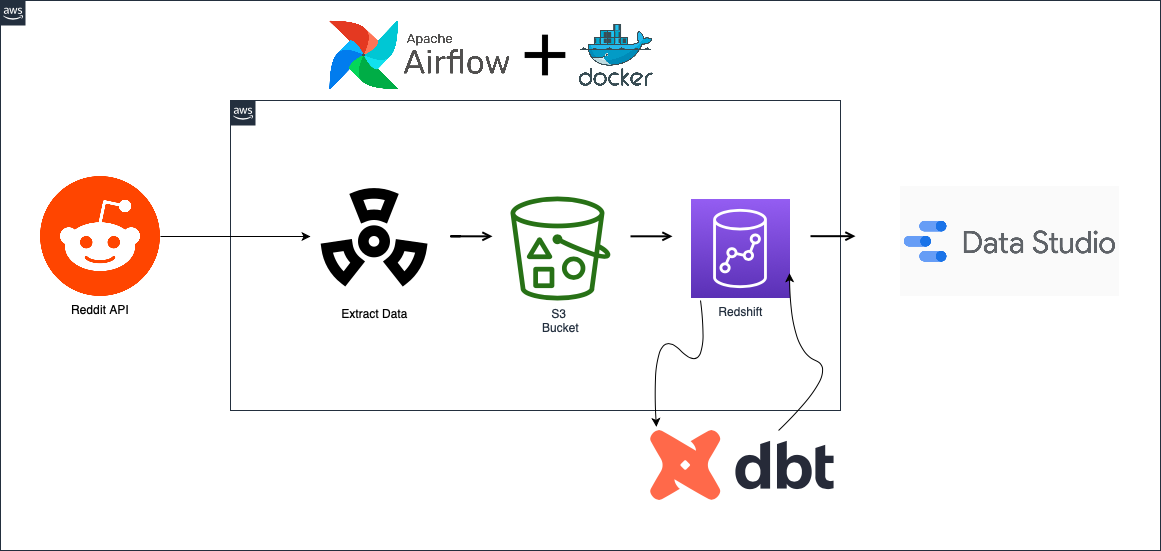
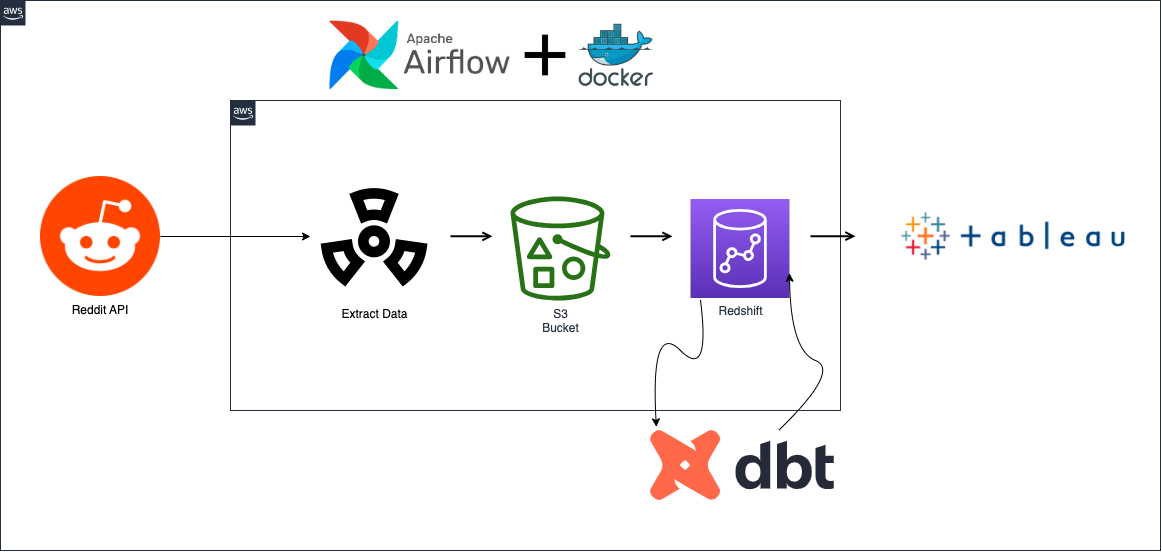
Tableau Dashboard

diff --git a/README.md b/README.md
@@ -1,7 +1,7 @@
 # Building a Reddit-ETL-Pipeline wtih Terraform, Airflow, Docker, and  dbt.
 
 ## Overview
-This project is a proof of concept for building a data pipeline using Terraform, Airflow, Docker, and dbt. The pipeline will extract data from the Reddit API, transform the data using dbt, and load the data into a Redshift Datawarehouse. The pipeline will be deployed to AWS using Terraform and Docker, and monitored using Airflow.
+This project is a proof of concept for building a data pipeline using Terraform, Airflow, Docker, and dbt. The pipeline will extract data from the Reddit API, transform the data using dbt, and load the data into a Redshift Datawarehouse. The pipeline will be deployed to AWS using Terraform and Docker, and monitored using Airflow. The data will be visualized using Tableau, or Google Data Studio.
 
 ---
 ## Architecture
@@ -14,7 +14,7 @@ This project is a proof of concept for building a data pipeline using Terraform,
 1. Load into [AWS S3](https://aws.amazon.com/s3/)
 1. Copy into [AWS Redshift](https://aws.amazon.com/redshift/)
 1. Transform using [dbt](https://www.getdbt.com)
-1. Create [PowerBI](https://powerbi.microsoft.com/en-gb/) or [Google Data Studio](https://datastudio.google.com) Dashboard 
+1. Create [Tableau](https://www.tableau.com) Dashboard or [Google Data Studio](https://datastudio.google.com) Report.
 1. Orchestrate with [Airflow](https://airflow.apache.org) in [Docker](https://www.docker.com)
 1. Create AWS resources with [Terraform](https://www.terraform.io)
 ---
